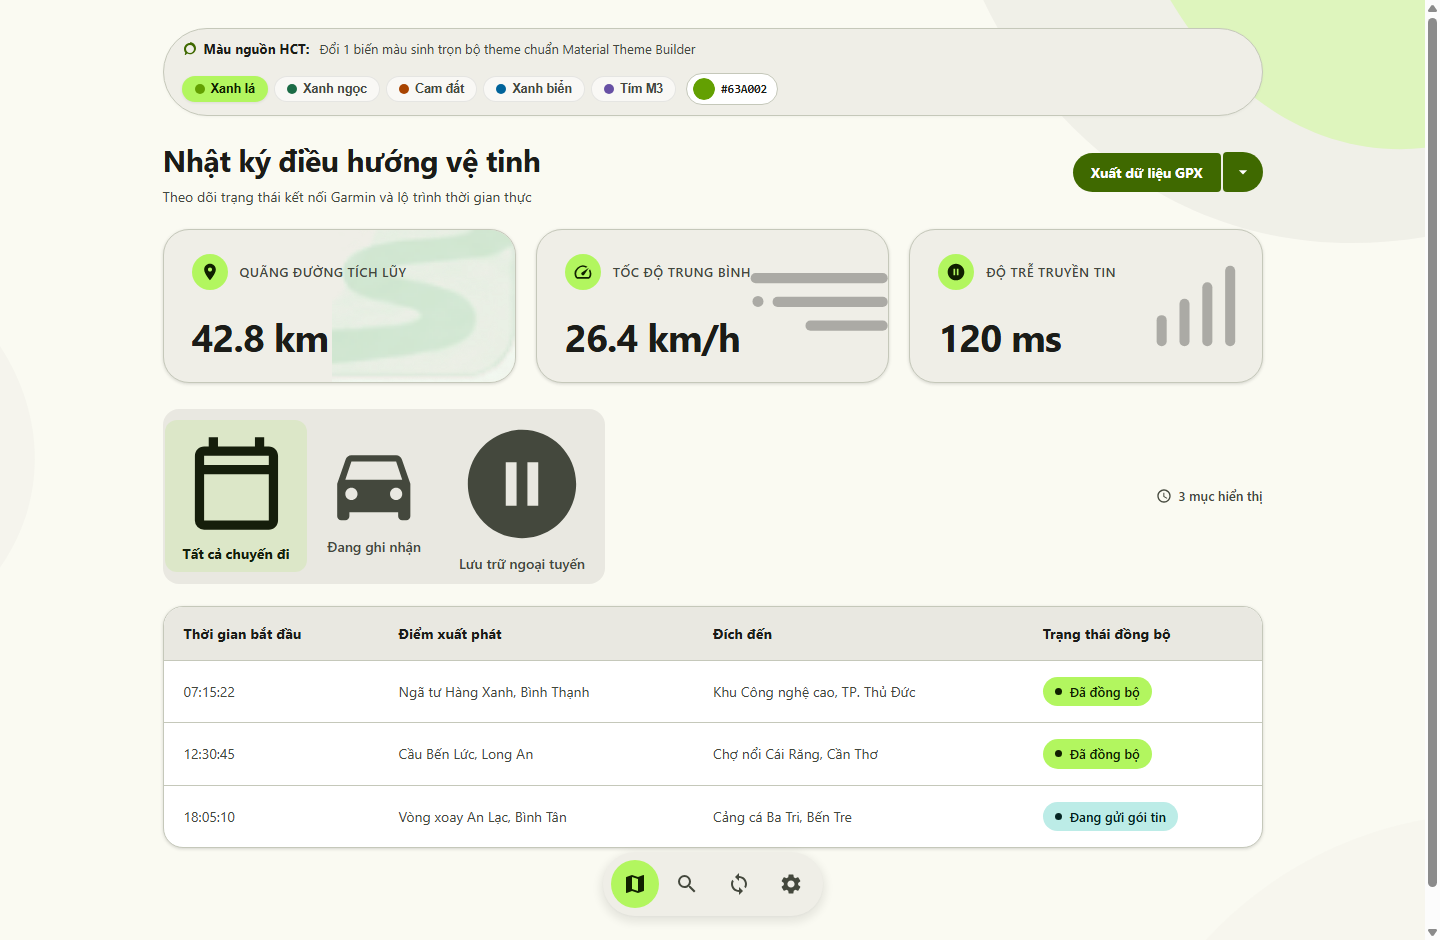
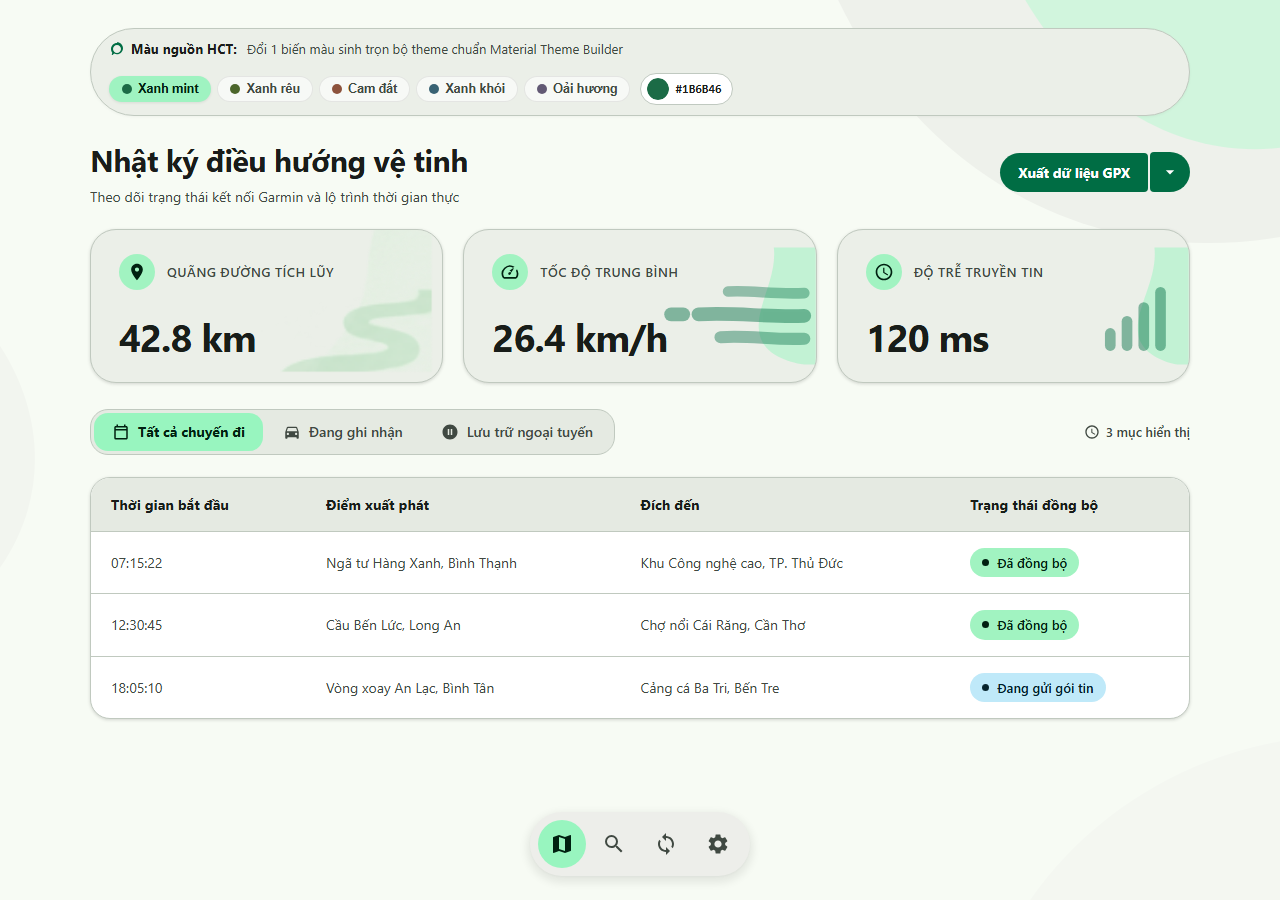
Restore connected button group styles and apply soothing pastel palette

diff --git a/examples/web/index.html b/examples/web/index.html
@@ -351,8 +351,6 @@
       object-fit: cover;
       object-position: right bottom;
       pointer-events: none;
-      mix-blend-mode: multiply;
-      opacity: 0.85;
     }
 
     .metric-watermark-svg {
@@ -362,7 +360,7 @@
     }
 
     /* ==========================================================================
-       4. Controls Bar & Connected Button Group
+       4. Controls Bar & Connected Button Group (M3 Expressive Morphing Tabs)
        ========================================================================== */
     .controls-bar {
       display: flex;
@@ -371,6 +369,54 @@
       flex-wrap: wrap;
       gap: 12px;
       margin-top: 4px;
+    }
+
+    .m3-connected-button-group {
+      display: inline-flex;
+      align-items: center;
+      padding: 3px;
+      gap: 2px;
+      background-color: var(--md-sys-color-surface-container-high, #E2ECE0);
+      border-radius: 18px;
+      border: 1px solid var(--md-sys-color-outline-variant, #C4D6C4);
+      transition: background-color 0.3s ease, border-color 0.3s ease;
+    }
+
+    .m3-connected-button-group .m3-group-button {
+      display: inline-flex;
+      align-items: center;
+      gap: 8px;
+      border: none;
+      background: transparent;
+      padding: 9px 18px;
+      font-family: var(--md-ref-typeface-brand);
+      font-size: 14px;
+      font-weight: 500;
+      line-height: 20px;
+      color: var(--md-sys-color-on-surface-variant, #414942);
+      border-radius: 6px;
+      cursor: pointer;
+      transition: border-radius var(--md-sys-motion-spring-fast-spatial-duration) var(--md-sys-motion-spring-fast-spatial),
+                  background-color var(--md-sys-motion-spring-fast-effects-duration) var(--md-sys-motion-spring-fast-effects),
+                  color var(--md-sys-motion-spring-fast-effects-duration) var(--md-sys-motion-spring-fast-effects);
+    }
+
+    .m3-connected-button-group .m3-group-button svg {
+      width: 18px;
+      height: 18px;
+      fill: currentColor;
+    }
+
+    .m3-connected-button-group .m3-group-button:hover:not(.selected) {
+      background-color: rgba(65, 73, 66, 0.08);
+      color: var(--md-sys-color-on-surface, #181D19);
+    }
+
+    .m3-connected-button-group .m3-group-button.selected {
+      border-radius: 14px;
+      background-color: var(--md-sys-color-primary-container, #C2E2C8);
+      color: var(--md-sys-color-on-primary-container, #0A4D2E);
+      font-weight: 700;
     }
 
     .counter-badge {
@@ -502,30 +548,30 @@
       </div>
       <div class="theme-bar-controls">
         <div class="theme-presets-row" role="radiogroup" aria-label="Màu gợi ý">
-          <button class="theme-chip-btn active" data-color="#63A002" style="--chip-color: #63A002;" title="Xanh lá thuần (Pure Foliage Green)">
+          <button class="theme-chip-btn active" data-color="#1B6B46" style="--chip-color: #1B6B46;" title="Pastel xanh mint (Botanical Mint)">
             <span class="theme-chip-dot"></span>
-            <span>Xanh lá</span>
+            <span>Xanh mint</span>
           </button>
-          <button class="theme-chip-btn" data-color="#1B6B46" style="--chip-color: #1B6B46;" title="Xanh rừng (Botanical Forest)">
+          <button class="theme-chip-btn" data-color="#4C662B" style="--chip-color: #4C662B;" title="Pastel xanh rêu (Soft Olive)">
             <span class="theme-chip-dot"></span>
-            <span>Xanh ngọc</span>
+            <span>Xanh rêu</span>
           </button>
-          <button class="theme-chip-btn" data-color="#A84300" style="--chip-color: #A84300;" title="Cam đất nung (Terracotta Earth)">
+          <button class="theme-chip-btn" data-color="#8C523C" style="--chip-color: #8C523C;" title="Pastel cam đất (Muted Terracotta)">
             <span class="theme-chip-dot"></span>
             <span>Cam đất</span>
           </button>
-          <button class="theme-chip-btn" data-color="#00639A" style="--chip-color: #00639A;" title="Xanh biển (Deep Ocean)">
+          <button class="theme-chip-btn" data-color="#386273" style="--chip-color: #386273;" title="Pastel xanh khói (Slate Teal)">
             <span class="theme-chip-dot"></span>
-            <span>Xanh biển</span>
+            <span>Xanh khói</span>
           </button>
-          <button class="theme-chip-btn" data-color="#6750A4" style="--chip-color: #6750A4;" title="Tím Material gốc (Iris Purple)">
+          <button class="theme-chip-btn" data-color="#625974" style="--chip-color: #625974;" title="Pastel tím oải hương (Dusty Lavender)">
             <span class="theme-chip-dot"></span>
-            <span>Tím M3</span>
+            <span>Oải hương</span>
           </button>
         </div>
         <label class="theme-custom-input-wrap" title="Chọn màu bất kỳ">
-          <input type="color" id="sourceColorInput" value="#63A002" aria-label="Chọn màu tùy chỉnh">
-          <span class="theme-hex-text" id="hexCodeDisplay">#63A002</span>
+          <input type="color" id="sourceColorInput" value="#1B6B46" aria-label="Chọn màu tùy chỉnh">
+          <span class="theme-hex-text" id="hexCodeDisplay">#1B6B46</span>
         </label>
       </div>
     </div>
@@ -565,18 +611,18 @@
         <div class="metric-value-row">
           <span class="metric-value">42.8 km</span>
         </div>
-        <!-- 100% Exact Clean S-Road from User Crop -->
+        <!-- 100% Authentic Watermark Asset Extracted Directly from Reference Image -->
         <div class="metric-watermark-wrapper" aria-hidden="true">
-          <img class="metric-watermark-img" src="assets/watermark-road-clean.png" alt="S-Road Track" />
+          <img src="assets/watermark-road.png" alt="" class="metric-watermark-img" />
         </div>
       </div>
 
-      <!-- Card 2: Speed with 3 Motion Streamlines & Lead Dot -->
+      <!-- Card 2: Speed (100% Exact to ChatGPT Original Reference: Soft Rounded Speed Bars + Background Hill) -->
       <div class="metric-card">
         <div class="metric-header">
           <div class="metric-icon-badge">
             <svg viewBox="0 0 24 24" fill="currentColor">
-              <path d="M20.38 8.57l-1.23 1.85a8 8 0 0 1-.22 7.58H5.07A8 8 0 0 1 15.58 6.85l1.85-1.23A10 10 0 0 0 3.35 19a2 2 0 0 0 1.72 1h13.85a2 2 0 0 0 1.74-1 10 10 0 0 0-.28-10.43zM10.59 15.41a2 2 0 0 0 2.83 0l5.66-8.49-8.49 5.66a2 2 0 0 0 0 2.83z"/>
+              <path d="M20.38 8.57l-1.23 1.85a8 8 0 0 1-.22 7.58H5.07A8 8 0 0 1 15.58 6.85l1.85-1.23A10 10 0 0 0 3.35 19a2 2 0 0 0 1.72 1h13.85a2 2 0 0 0 1.74-1 10 10 0 0 0-.27-10.43zM10.59 15.41a2 2 0 1 1 2.83-2.83l2.83-4.24a.5.5 0 0 0-.71-.71l-4.24 2.83a2 2 0 0 1-.71 4.95z"/>
             </svg>
           </div>
           <span class="metric-label">Tốc độ trung bình</span>
@@ -584,23 +630,35 @@
         <div class="metric-value-row">
           <span class="metric-value">26.4 km/h</span>
         </div>
-        <!-- 3 Horizontal Streamlines + Dot -->
+        <!-- Aerodynamic Wind / Speed Streaks (Thick ribbon weight matching Card 1, distinct from Card 3 signal bars) -->
         <div class="metric-watermark-wrapper" aria-hidden="true">
-          <svg class="metric-watermark-svg" viewBox="0 0 200 120" fill="none">
-            <rect x="50" y="24" width="150" height="11" rx="5.5" fill="currentColor" opacity="0.32" />
-            <circle cx="58" cy="55" r="6" fill="currentColor" opacity="0.32" />
-            <rect x="74" y="50" width="126" height="11" rx="5.5" fill="currentColor" opacity="0.32" />
-            <rect x="110" y="76" width="90" height="11" rx="5.5" fill="currentColor" opacity="0.32" />
+          <svg class="metric-watermark-svg" viewBox="0 0 240 154" fill="none">
+            <!-- Organic background hill -->
+            <path d="M 185 0 C 190 45, 155 85, 168 120 C 176 140, 200 150, 225 154 L 240 154 L 240 0 Z" fill="var(--md-sys-color-primary-container, #D3EAD7)" opacity="0.45" />
+            
+            <!-- Thick Aerodynamic Speed Trails (matching road ribbon thickness) -->
+            <g fill="var(--md-sys-color-primary, #6EAF7B)" stroke="var(--md-sys-color-primary, #6EAF7B)">
+              <!-- Top Streak -->
+              <path d="M 125 58 C 155 56, 185 62, 225 60" stroke-width="14" stroke-linecap="round" opacity="0.38"/>
+              
+              <!-- Middle Leading Dash -->
+              <path d="M 50 88 L 66 88" stroke-width="18" stroke-linecap="round" opacity="0.45"/>
+              <!-- Main Middle Power Streak -->
+              <path d="M 86 88 C 135 85, 175 92, 225 90" stroke-width="18" stroke-linecap="round" opacity="0.45"/>
+              
+              <!-- Bottom Streak -->
+              <path d="M 115 118 C 150 115, 185 122, 225 120" stroke-width="16" stroke-linecap="round" opacity="0.40"/>
+            </g>
           </svg>
         </div>
       </div>
 
-      <!-- Card 3: Network Latency with 4 Vertical Signal Bars -->
+      <!-- Card 3: Latency with 4 Rounded Signal Bars (Exact like ChatGPT screenshot) -->
       <div class="metric-card">
         <div class="metric-header">
           <div class="metric-icon-badge">
             <svg viewBox="0 0 24 24" fill="currentColor">
-              <path d="M12 2C6.48 2 2 6.48 2 12s4.48 10 10 10 10-4.48 10-10S17.52 2 12 2zm-1 14H9V8h2v8zm4 0h-2V8h2v8z"/>
+              <path d="M11.99 2C6.47 2 2 6.48 2 12s4.47 10 9.99 10C17.52 22 22 17.52 22 12S17.52 2 11.99 2zM12 20c-4.42 0-8-3.58-8-8s3.58-8 8-8 8 3.58 8 8-3.58 8-8 8zm.5-13H11v6l5.25 3.15.75-1.23-4.5-2.67z"/>
             </svg>
           </div>
           <span class="metric-label">Độ trễ truyền tin</span>
@@ -608,13 +666,19 @@
         <div class="metric-value-row">
           <span class="metric-value">120 ms</span>
         </div>
-        <!-- 4 Vertical Signal Bars -->
+        <!-- 4 Soft Vertical Signal Bars exactly like ChatGPT image -->
         <div class="metric-watermark-wrapper" aria-hidden="true">
-          <svg class="metric-watermark-svg" viewBox="0 0 200 120" fill="none">
-            <rect x="85" y="70" width="11" height="34" rx="5.5" fill="currentColor" opacity="0.32" />
-            <rect x="110" y="52" width="11" height="52" rx="5.5" fill="currentColor" opacity="0.32" />
-            <rect x="135" y="34" width="11" height="70" rx="5.5" fill="currentColor" opacity="0.32" />
-            <rect x="160" y="16" width="11" height="88" rx="5.5" fill="currentColor" opacity="0.32" />
+          <svg class="metric-watermark-svg" viewBox="0 0 240 154" fill="none">
+            <!-- Organic background hill -->
+            <path d="M 195 0 C 200 45, 165 85, 175 120 C 182 140, 205 150, 225 154 L 240 154 L 240 0 Z" fill="var(--md-sys-color-primary-container, #D3EAD7)" opacity="0.45" />
+            
+            <!-- 4 Rounded Pill Bars -->
+            <g transform="translate(130, 48)" fill="var(--md-sys-color-primary, #74B584)" opacity="0.45">
+              <rect x="0"  y="58" width="14" height="30" rx="7" />
+              <rect x="22" y="42" width="14" height="46" rx="7" />
+              <rect x="44" y="24" width="14" height="64" rx="7" />
+              <rect x="66" y="4"  width="14" height="84" rx="7" />
+            </g>
           </svg>
         </div>
       </div>

diff --git a/examples/web/tokens.css b/examples/web/tokens.css
@@ -10,37 +10,37 @@
   --md-ref-typeface-plain: "Roboto Flex", -apple-system, BlinkMacSystemFont, "Segoe UI", Roboto, sans-serif;
   --md-ref-typeface-mono: "Roboto Mono", ui-monospace, monospace;
 
-  /* --- 2. Color Palette (Light - Pure Foliage Green Seed #63A002 via Google HCT) --- */
-  --md-sys-color-primary: #3F6900;
+  /* --- 2. Color Palette (Light - Pastel Botanical Mint Seed #1B6B46 via Google HCT) --- */
+  --md-sys-color-primary: #1B6B46;
   --md-sys-color-on-primary: #FFFFFF;
-  --md-sys-color-primary-container: #B2F65F;
-  --md-sys-color-on-primary-container: #102000;
+  --md-sys-color-primary-container: #A3F2C2;
+  --md-sys-color-on-primary-container: #002111;
 
-  --md-sys-color-secondary: #586249;
+  --md-sys-color-secondary: #4F6354;
   --md-sys-color-on-secondary: #FFFFFF;
-  --md-sys-color-secondary-container: #DCE7C8;
-  --md-sys-color-on-secondary-container: #151E0B;
+  --md-sys-color-secondary-container: #D2E8D5;
+  --md-sys-color-on-secondary-container: #0D1F13;
 
-  --md-sys-color-tertiary: #386663;
+  --md-sys-color-tertiary: #3C6472;
   --md-sys-color-on-tertiary: #FFFFFF;
-  --md-sys-color-tertiary-container: #BCECE7;
-  --md-sys-color-on-tertiary-container: #00201E;
+  --md-sys-color-tertiary-container: #BFE9F9;
+  --md-sys-color-on-tertiary-container: #001F28;
 
-  --md-sys-color-surface: #FAFAF2;
-  --md-sys-color-surface-dim: #DDDED6;
-  --md-sys-color-surface-bright: #FAFAF2;
-  --md-sys-color-on-surface: #1B1C18;
-  --md-sys-color-on-surface-variant: #44483D;
+  --md-sys-color-surface: #F7FBF4;
+  --md-sys-color-surface-dim: #D7DCD5;
+  --md-sys-color-surface-bright: #F7FBF4;
+  --md-sys-color-on-surface: #181D19;
+  --md-sys-color-on-surface-variant: #414942;
 
   /* The 5 Surface Container Tiers (Light) */
   --md-sys-color-surface-container-lowest: #FFFFFF;
-  --md-sys-color-surface-container-low: #F5F4EC;
-  --md-sys-color-surface-container: #EFEEE7;
-  --md-sys-color-surface-container-high: #E9E8E1;
-  --md-sys-color-surface-container-highest: #E3E3DB;
+  --md-sys-color-surface-container-low: #F1F5EE;
+  --md-sys-color-surface-container: #EBEFE8;
+  --md-sys-color-surface-container-high: #E5EAE2;
+  --md-sys-color-surface-container-highest: #DFE4DD;
 
-  --md-sys-color-outline: #75796C;
-  --md-sys-color-outline-variant: #C5C8BA;
+  --md-sys-color-outline: #717971;
+  --md-sys-color-outline-variant: #C0C9BF;
 
   /* --- 3. The 10-Step Corner Radius Scale --- */
   --md-sys-shape-corner-none: 0px;

diff --git a/examples/web/theme-builder.js b/examples/web/theme-builder.js
@@ -112,8 +112,8 @@
       });
     }
 
-    // Default initialization: Pure foliage green #63A002
-    window.applyDynamicTheme('#63A002');
+    // Default initialization: Soothing Pastel Botanical Mint #1B6B46
+    window.applyDynamicTheme('#1B6B46');
   }
 
   if (document.readyState === 'loading') {
